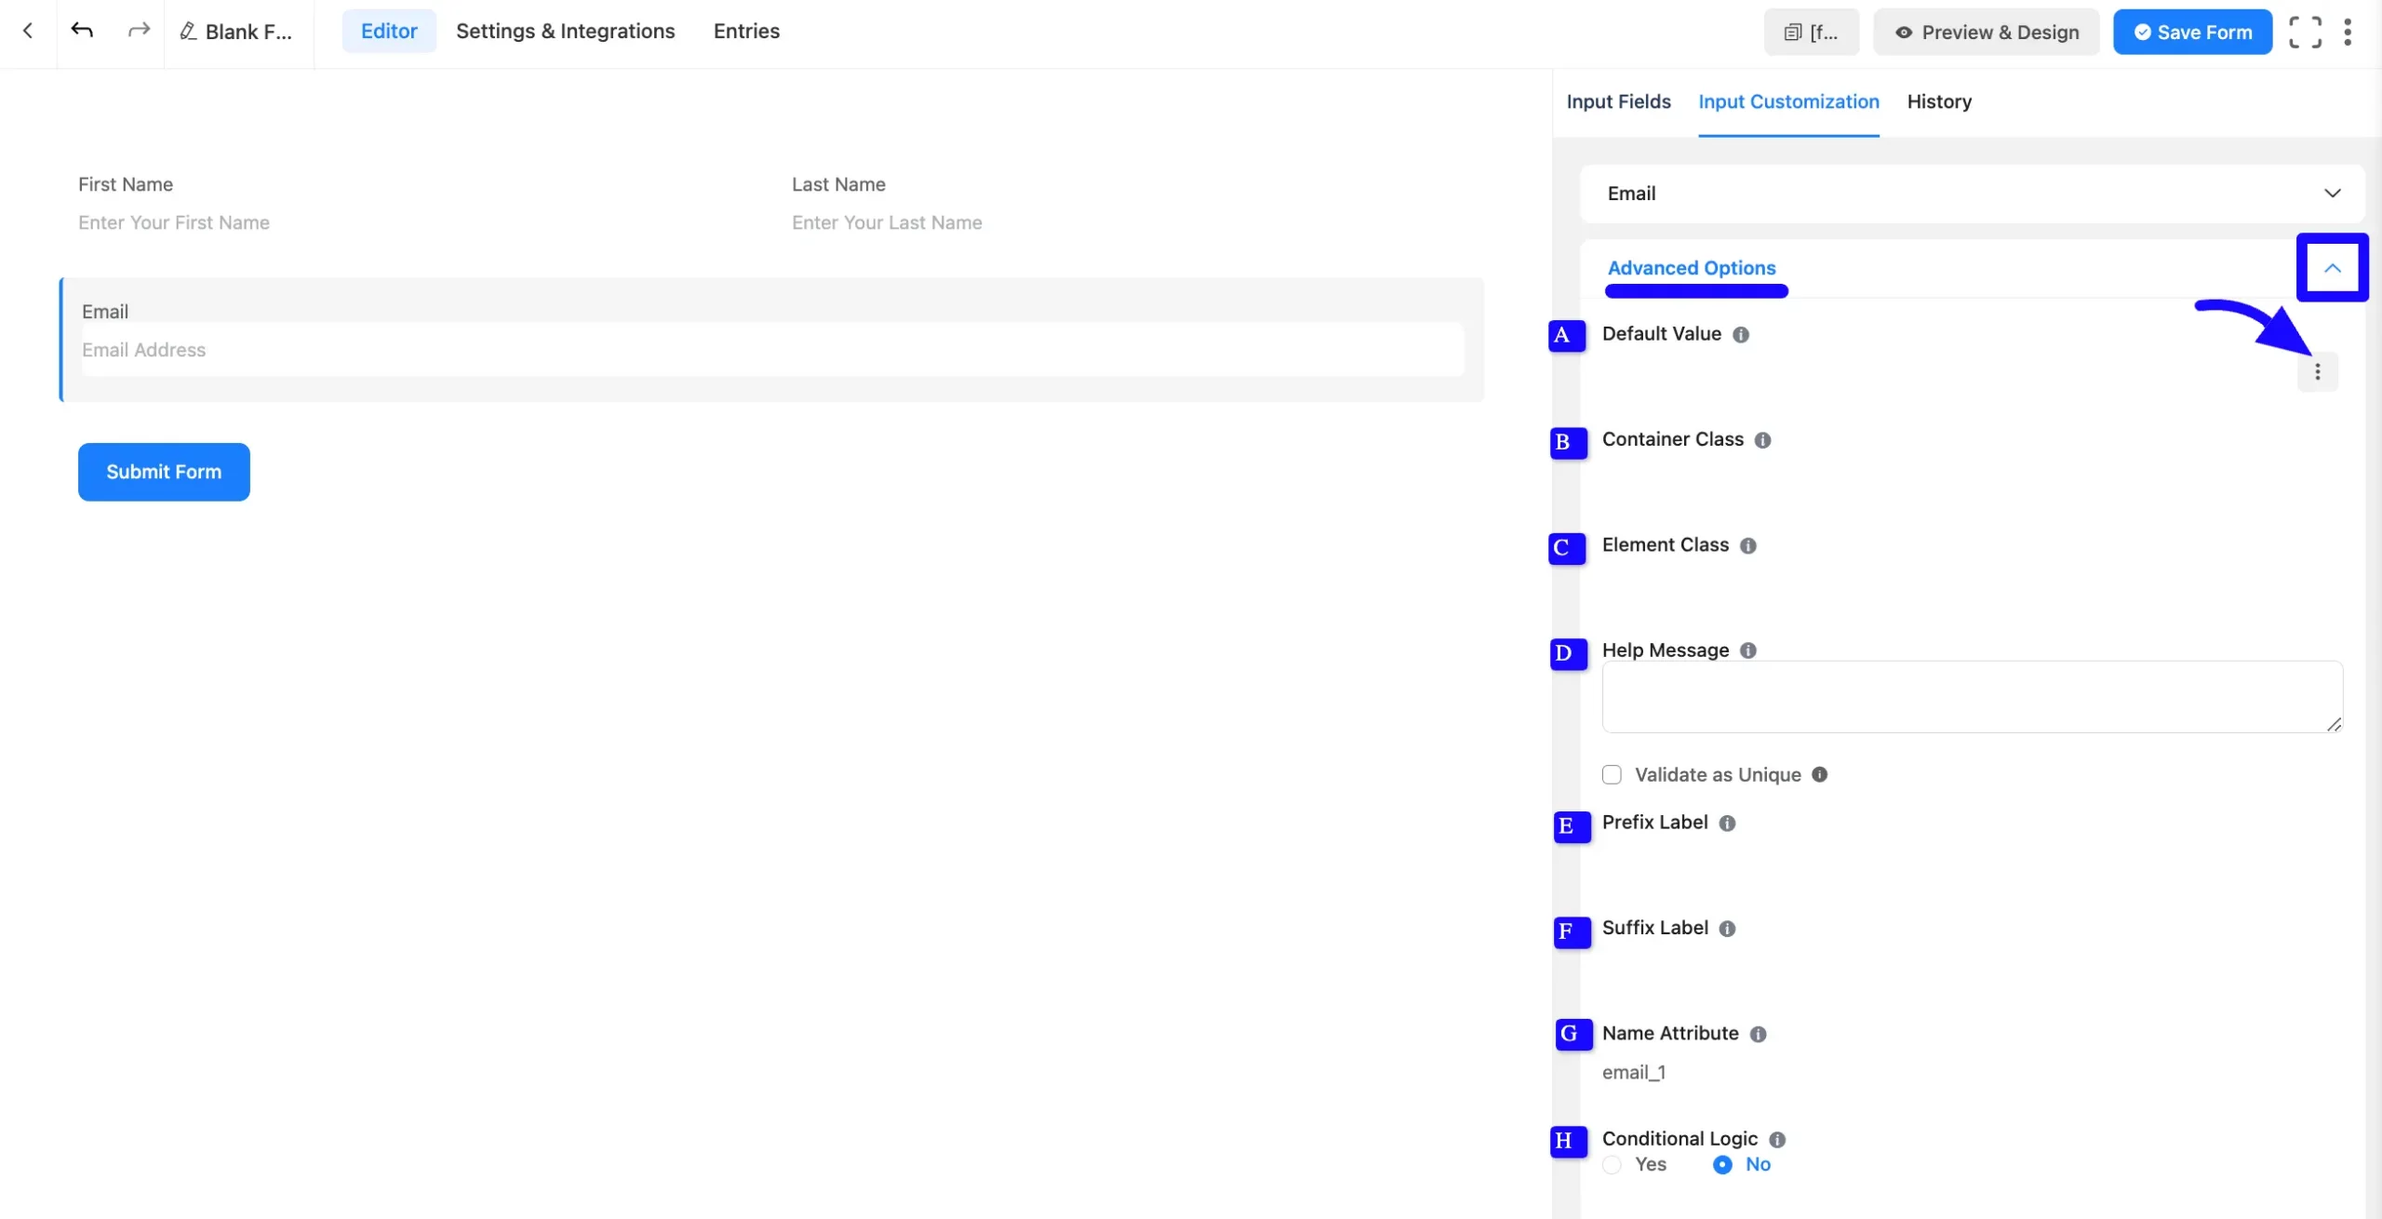
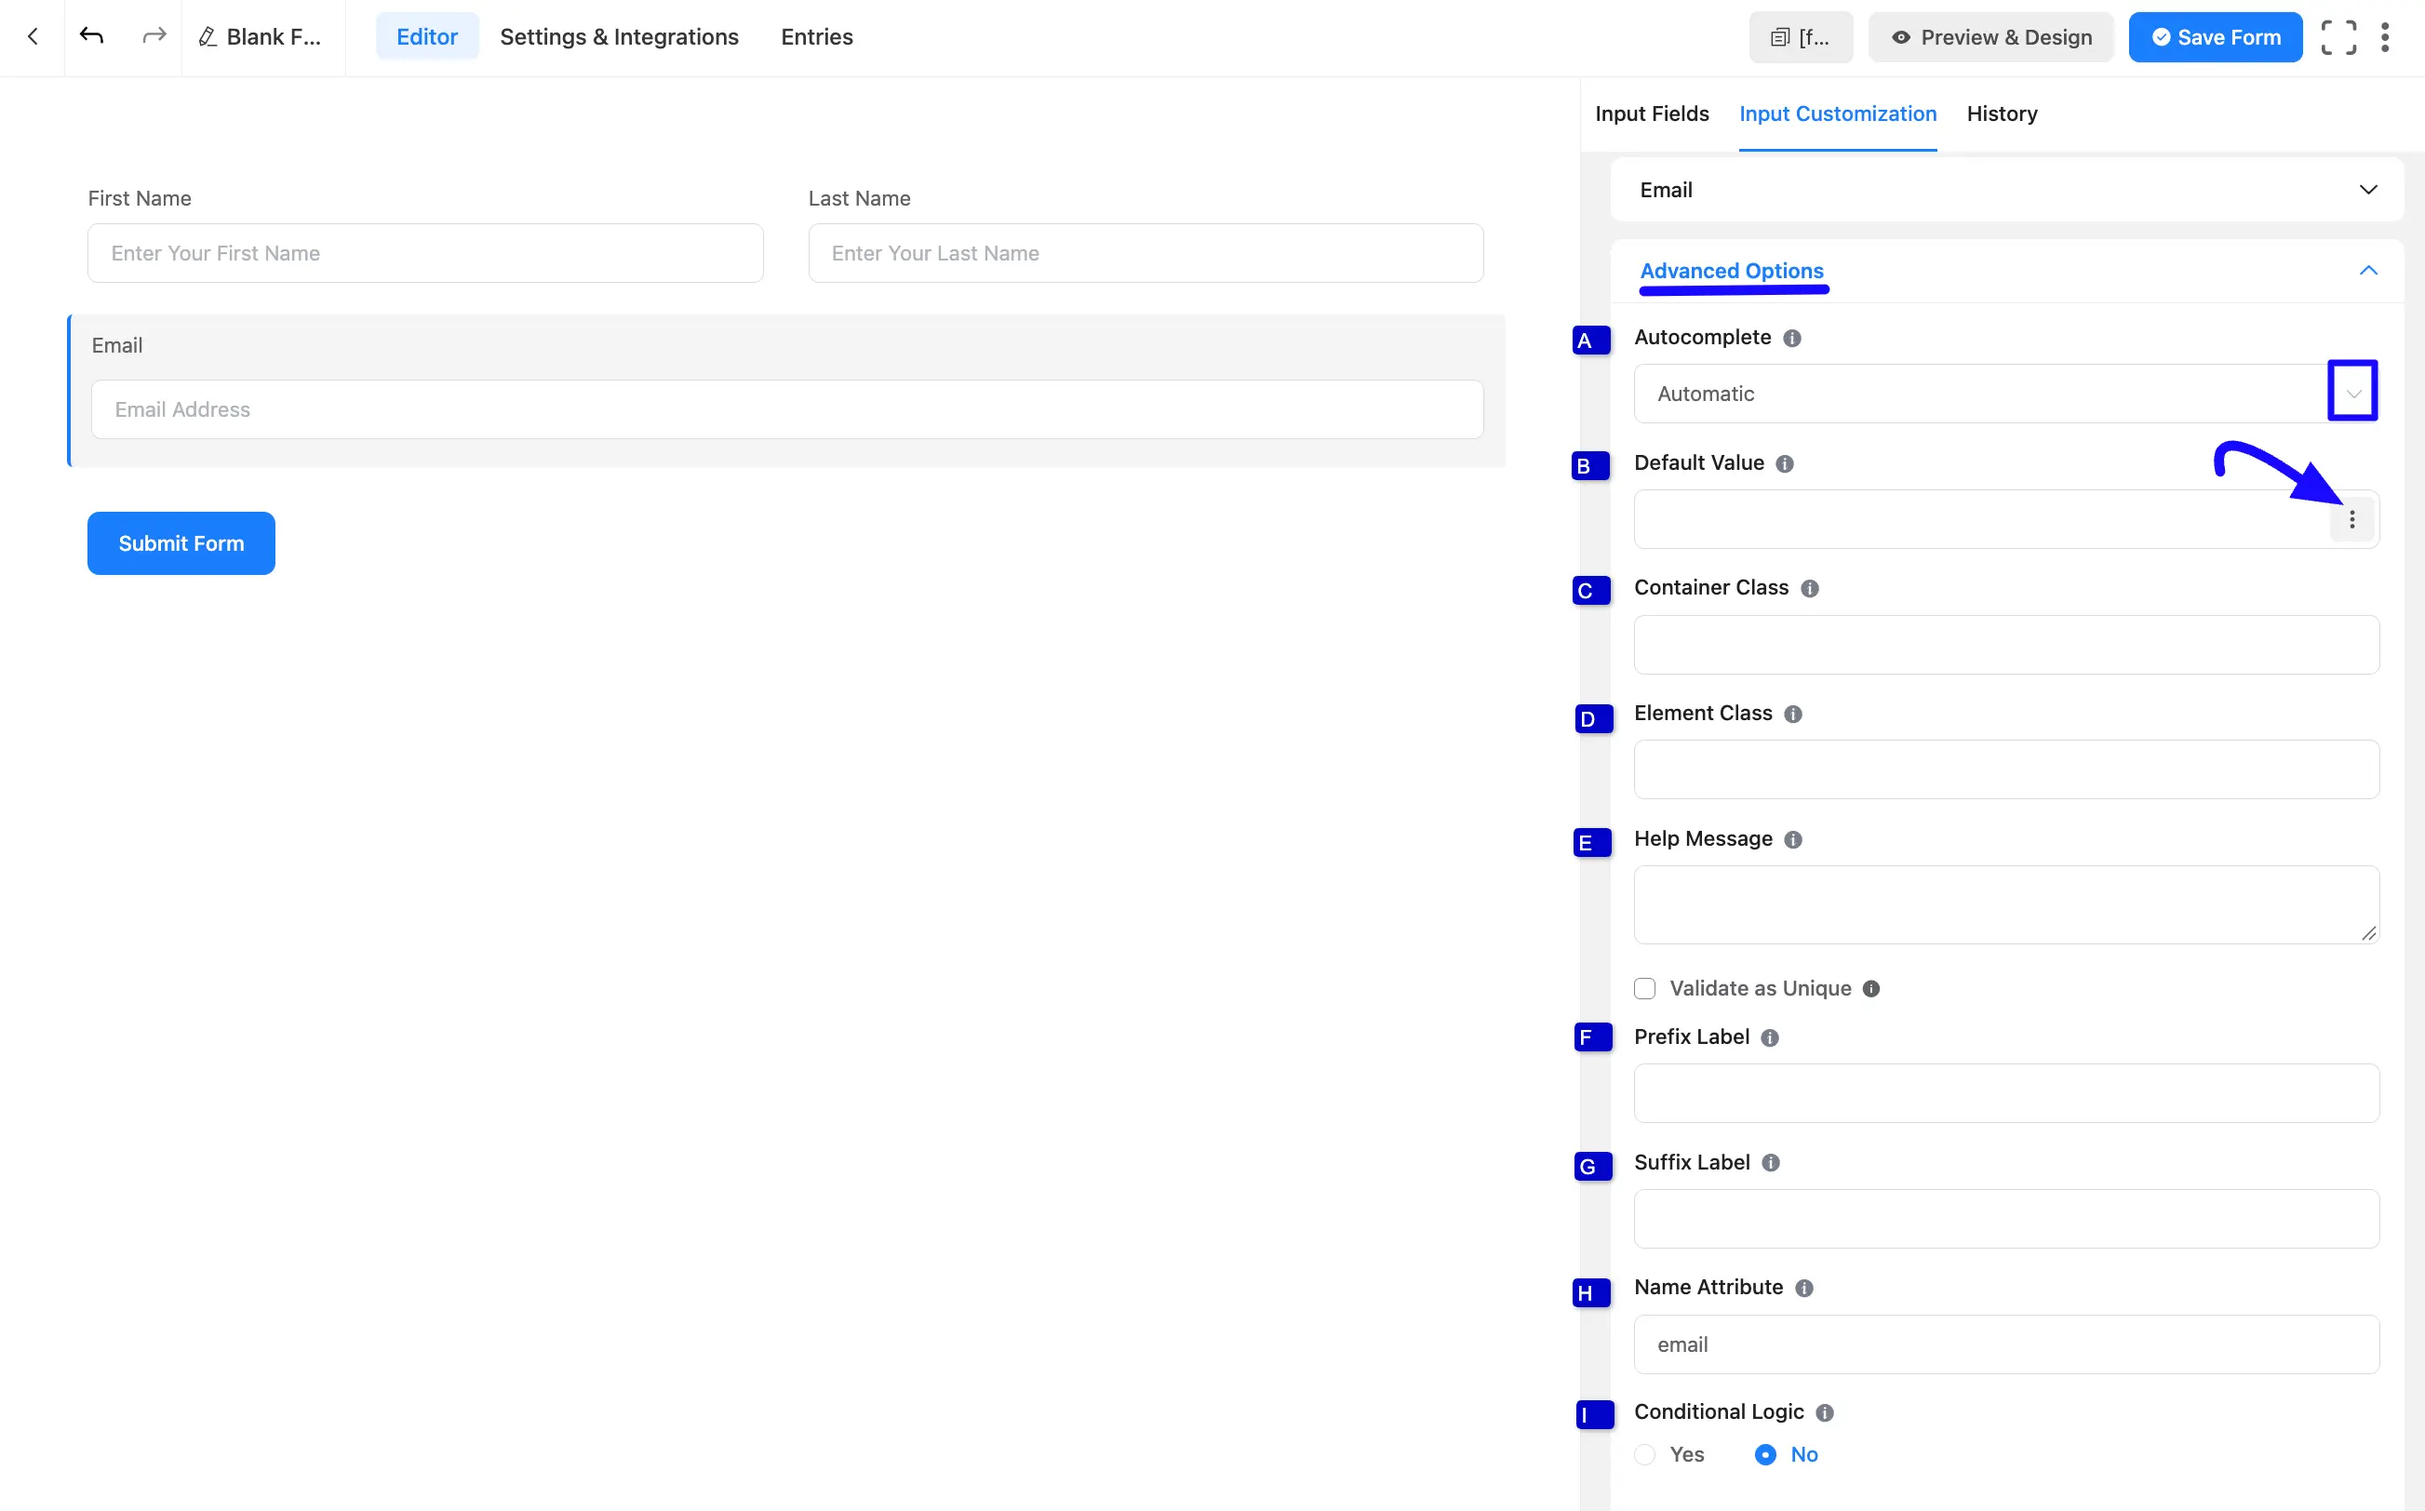
update descriptioin and add image email address input field doc

diff --git a/docs/form-fields/general-fields/email-address-input-field.md b/docs/form-fields/general-fields/email-address-input-field.md
@@ -56,21 +56,25 @@ You will find various settings options for customizing the field. Located in the
 
 Advanced settings allow further customization to meet specific use cases.
 
-**A. Default Value:** Using our shortcodes, you can manually set any fixed value in your field and pre-fill your input field dynamically. To get a better understanding of Dynamic Default Value, [read this article.](/dynamic-default-value)
+**A. Autocomplete:** Choose a value that tells the browser what the field collects, so it can offer saved details. Options are **Automatic**, **off**, **None**, or a specific value. To learn more, read [Autocomplete for Form Fields](/autocomplete-for-form-fields).
 
-**B. Container Class:** Use this option to add your custom CSS classes to the field’s wrapper.
+**B. Default Value:** Using our shortcodes, you can manually set any fixed value in your field and pre-fill your input field dynamically. To get a better understanding of Dynamic Default Value, [read this article.](/dynamic-default-value)
 
-**C. Element Class:** Add custom CSS classes to the input field.
+**C. Container Class:** Use this option to add your custom CSS classes to the field’s wrapper.
 
-**D. Help Message:** This option allows you to guide your user thoroughly. Add your text here, which will be shown as a help message to the user.
+**D. Element Class:** Add custom CSS classes to the input field.
 
-**E. Prefix Label:** You can use this field to provide a **Prefix Label** in your input field. It will show in the input field as a prefix label.
+**E. Help Message:** This option allows you to guide your user thoroughly. Add your text here, which will be shown as a help message to the user.
 
-**F. Suffix Label:** You can use this field to provide a Suffix Label in your input field. It will show in the input field as a suffix label.
+**Validate as Unique:** Ensure the email address is unique among all submissions. If it is not unique, users will receive an error message. Learn more in [Unique Field Validation](/unique-field-validation).
 
-**G. Name Attribute:** The input field’s name attribute is the HTML equivalent of the same name. You don’t need to modify this.
+**F. Prefix Label:** You can use this field to provide a **Prefix Label** in your input field. It will show in the input field as a prefix label.
 
-**H. Conditional Logic:** This option allows you to create specific rules to dynamically hide/show the input field to function conditionally based on your submission values according to your set of conditional logics. To learn more, read [Set up Forms with Conditional Logic in Fluent Forms](/set-up-forms-with-conditional-logic). 
+**G. Suffix Label:** You can use this field to provide a Suffix Label in your input field. It will show in the input field as a suffix label.
+
+**H. Name Attribute:** The input field’s name attribute is the HTML equivalent of the same name. You don’t need to modify this.
+
+**I. Conditional Logic:** This option allows you to create specific rules to dynamically hide/show the input field to function conditionally based on your submission values according to your set of conditional logics. To learn more, read [Set up Forms with Conditional Logic in Fluent Forms](/set-up-forms-with-conditional-logic). 
 
 ![Advanced Option](/images/form-fields/general-fields/email-address-input-field/Advanced-option-05-scaled.webp)
 
